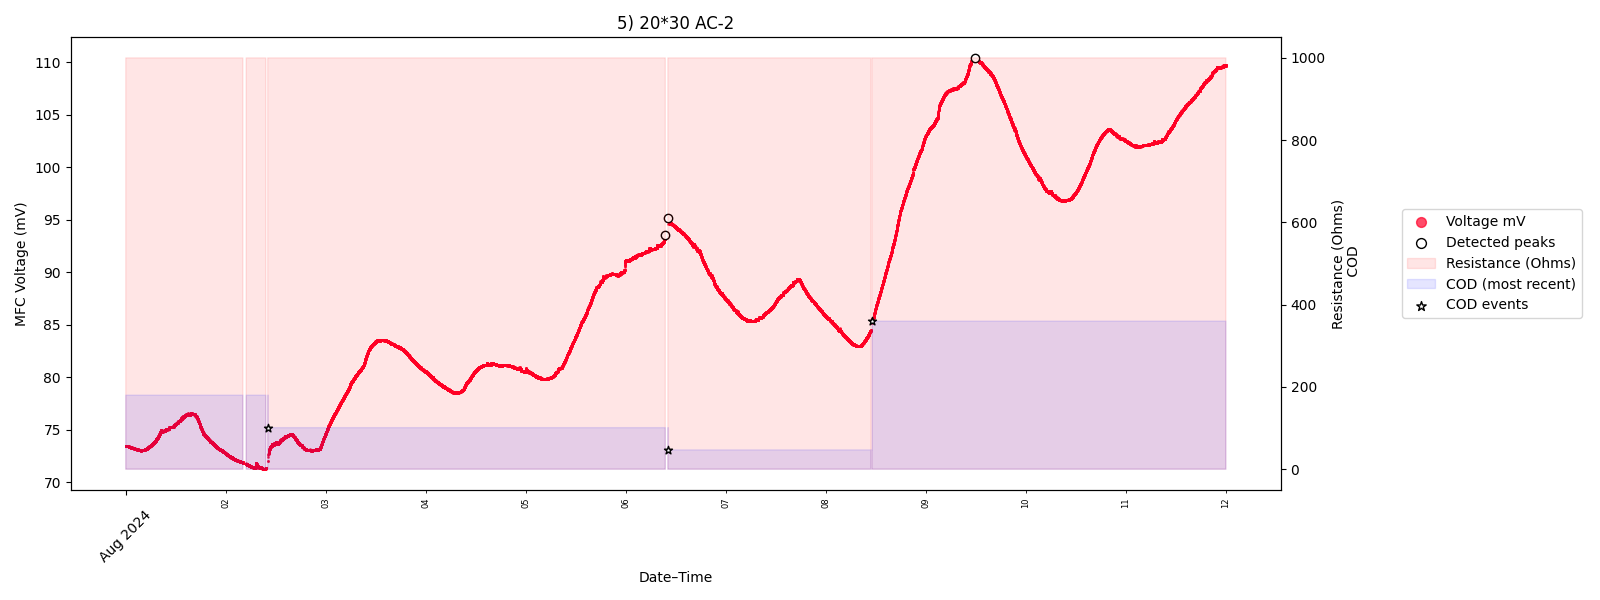
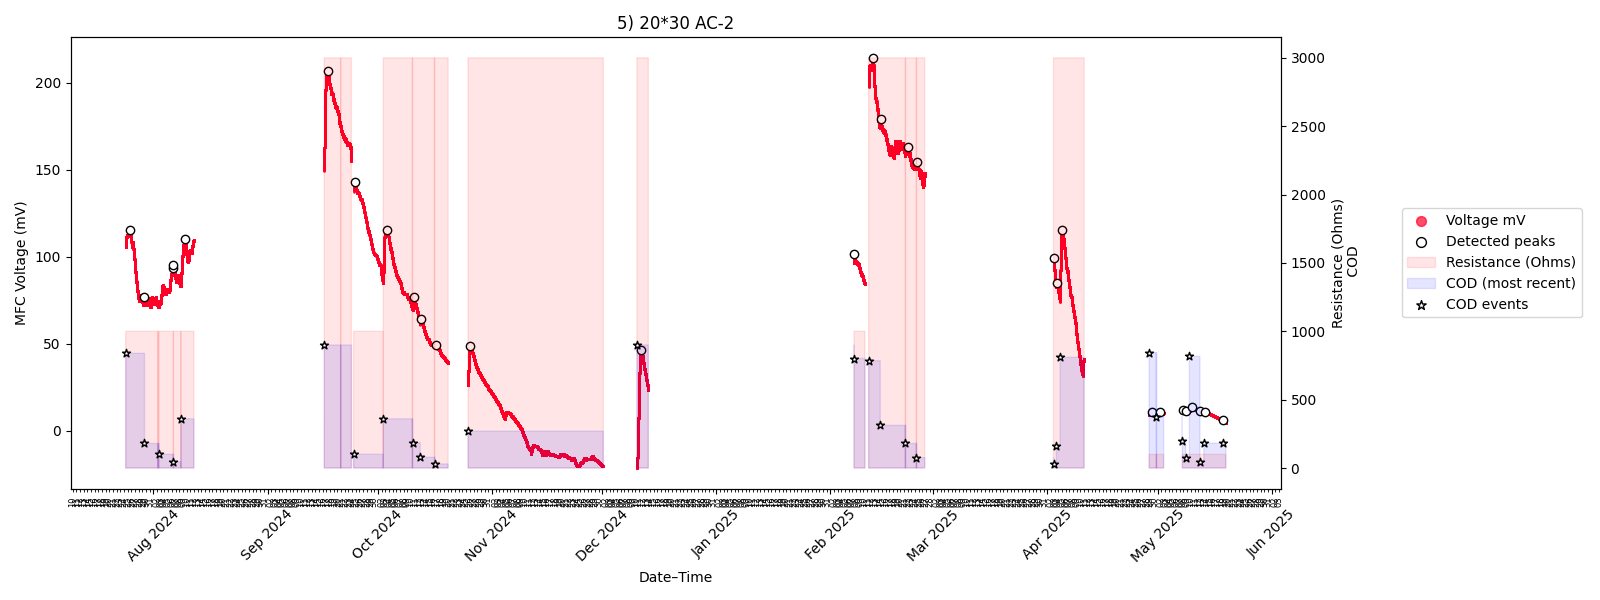
Scatter graph of COD vs peak voltage value generated

diff --git a/analyse_data.py b/analyse_data.py
@@ -10,13 +10,15 @@ def main():
     all_data = all_data.set_index("datetime", drop=False).sort_index()
 
     # Select date range to work on 
-    all_data = all_data.loc["2024-08-01":"2024-08-28 23:59:59"]
+    # all_data = all_data.loc["2024-08-01":"2024-08-28 23:59:59"]
 
     # Get names of columns containing MFC voltage data
     mfc_column_names = extract_mfc_column_names(all_data)
 
     # Plot all voltage data
-    plot_data(all_data, cols_to_plot=mfc_column_names, title="all MFCs", show_plot=False)
+    plot_data(all_data, cols_to_plot=mfc_column_names, title="all MFCs", 
+            #   show_plot=False
+              )
 
     # Separate into dictionary of indiviudal MFCs time series data
     all_data_separate = separate_mfc_data(all_data, mfc_column_names)
@@ -183,10 +185,8 @@ def main():
 
     # Save COD event parameters to excel file  
     with pd.ExcelWriter("mfc_analysis.xlsx") as writer:
+
         for sheet in mfc_analysis:
-            # # Translate dictionary to data frame
-            # df = pd.DataFrame(dict([(k, pd.Series(v)) for k, v in mfc_analysis[sheet].items()]))  
-            # df.to_excel(writer, sheet_name=sheet, index=False)
 
             # Convert all nested dictionaries to DataFrames in place
             mfc_analysis[sheet] = pd.DataFrame(
@@ -194,7 +194,8 @@ def main():
                 )
             
             # Write to excel file
-            mfc_analysis[sheet].to_excel(writer, sheet_name=sheet, index=False)
+            # mfc_analysis[sheet].to_excel(writer, sheet_name=sheet, index=False)
+            mfc_analysis[sheet].to_excel(writer, sheet_name=sheet)
 
 
     # Regex patterns for each MFC type to filter data
@@ -206,93 +207,117 @@ def main():
     }
 
     # ---------------------------------------------------------------
-    # -------- Min, max, mean spike delay for each COD event ---------
+    # -------- Min, max, mean spike delay and total energy for each COD event ---------
     # ---------------------------------------------------------------
-    summary = {}
+    for parameter in ["Spike delay (days)", "Energy J"]:
+    
+        summary = {}
 
-    for mfc_type, pattern in patterns.items():
+        plt.figure(figsize=(16, 6))
 
-        # Select only columns that match the heading name pettern
-        cols = mfc_analysis["Spike delay (days)"].filter(regex=pattern)   
+        for mfc_type, pattern in patterns.items():
 
-        # Compute the COD event-wise (i.e. row-wise) min, max, mean
-        summary[mfc_type] = {
-            "min": cols.min(axis=1),
-            "max": cols.max(axis=1),
-            "mean": cols.mean(axis=1)
-        }
+            # Select only columns that match the heading name pettern
+            cols = mfc_analysis[parameter].filter(regex=pattern)   
 
-        number_of_COD_events = len(summary[mfc_type]["mean"])
+            # Compute the COD event-wise (i.e. row-wise) min, max, mean
+            summary[mfc_type] = {
+                "min": cols.min(axis=1),
+                "max": cols.max(axis=1),
+                "mean": cols.mean(axis=1)
+            }
 
-        COD_event_numbers = range(number_of_COD_events)
+            number_of_COD_events = len(summary[mfc_type]["mean"])
 
-        # Plot COD event-wise mean
-        plt.plot(COD_event_numbers, 
-                 summary[mfc_type]["mean"], 
-                 label=mfc_type)
+            COD_event_numbers = range(number_of_COD_events)
 
-        # Shade area between min and max
-        plt.fill_between(COD_event_numbers, 
-                         summary[mfc_type]['min'], 
-                         summary[mfc_type]['max'], 
-                         alpha=0.3)
+            # Plot COD event-wise mean
+            plt.plot(COD_event_numbers, 
+                    summary[mfc_type]["mean"], 
+                    label=mfc_type)
 
-    plt.legend()
-    plt.xticks(COD_event_numbers)  # only integers
-    plt.xlabel('COD event index')
-    plt.ylabel('Delay from COD event to voltage peak (days)')
-    plt.savefig("figs/Spike_delay_days.png")
-    plt.show()
+            # Shade area between min and max
+            plt.fill_between(COD_event_numbers, 
+                            summary[mfc_type]['min'], 
+                            summary[mfc_type]['max'], 
+                            alpha=0.3)
 
-    print(summary)
+        plt.legend()
+        plt.xticks(COD_event_numbers)  # only integers
+        plt.xlabel('COD event index')
+        plt.ylabel(parameter)
+        plt.savefig("figs/" + parameter + "Spike_delay_days.png")
+        plt.show()
 
-    # ---------------------------------------------------------------
-    # -------- Min, max, mean total energy for each COD event ---------
-    # ---------------------------------------------------------------
-    summary = {}
+        print(summary)
 
-    for mfc_type, pattern in patterns.items():
-
-        # Select only columns that match the heading name pettern
-        cols = mfc_analysis["Energy J"].filter(regex=pattern)   
-
-        # Compute the COD event-wise (i.e. row-wise) min, max, mean
-        summary[mfc_type] = {
-            "min": cols.min(axis=1),
-            "max": cols.max(axis=1),
-            "mean": cols.mean(axis=1)
-        }
-
-        number_of_COD_events = len(summary[mfc_type]["mean"])
-
-        COD_event_numbers = range(number_of_COD_events)
-
-        # Plot COD event-wise mean
-        plt.plot(COD_event_numbers, 
-                 summary[mfc_type]["mean"], 
-                 label=mfc_type)
-
-        # Shade area between min and max
-        plt.fill_between(COD_event_numbers, 
-                         summary[mfc_type]['min'], 
-                         summary[mfc_type]['max'], 
-                         alpha=0.3)
-
-    plt.legend()
-    plt.xticks(COD_event_numbers)  # only integers
-    plt.xlabel('COD event index')
-    plt.ylabel('Delay from COD event to voltage peak (days)')
-    plt.savefig("figs/Spike_delay_days.png")
-    plt.show()
-
-    print(summary)
-
+    
     # ---------------------------------------------------------------
     # -------- Vpeak vs COD, coloured by resistance, seperate plot or marker style for each MFC type  ---------
     # ---------------------------------------------------------------
 
+    
+    df_vpeak = mfc_analysis["Vpeak mV"]
+    df_cod = mfc_analysis["COD"]
+    df_res = mfc_analysis["Resistance kOhms"]
+
+    for mfc_type, pattern in patterns.items():
+
+        # Select matching columns
+        cod = df_cod.filter(regex=pattern)
+        vpeak = df_vpeak.filter(regex=pattern)
+        res = df_res.filter(regex=pattern)
+
+        # Ensure same column order
+        cod = cod[vpeak.columns]
+        res = res[vpeak.columns]
+
+        # Flatten to 1D arrays
+        x = cod.values.flatten()
+        y = vpeak.values.flatten()
+        r = res.values.flatten()
+
+        # Remove NaNs (important for plotting)
+        mask = ~np.isnan(x) & ~np.isnan(y) & ~np.isnan(r)
+        x, y, r = x[mask], y[mask], r[mask]
+
+        # Create plot
+        plt.figure(figsize=(16, 6))
+
+        # Get unique resistance values 
+        unique_vals = sorted(np.unique(r))
+
+        # colors = plt.cm.tab10(range(len(unique_vals)))
+        # colours = ["red", "cyan", "green"]
+
+        # Gnerate colour map
+        colours = ["red", "cyan", "green"]
+        colour_map = dict(zip(unique_vals, colours))
+
+        # Plot each resistance group separately
+        for val, col in zip(unique_vals, colours):
+            # Get index of equal resistance values
+            idx = r == val
+            
+            # Plot points from this resistance group
+            plt.scatter(x[idx], 
+                        y[idx], 
+                        # color=col, 
+                        color=colour_map.get(val, "black"), # Use colour map or default to black
+                        label=f"R = {val} kOhm")
+
+        plt.xlabel("COD")
+        plt.ylabel("Vpeak mV")
+        plt.title(mfc_type)
+        plt.legend()
+        plt.show()
+
     # ---------------------------------------------------------------
     # -------- Ppeak vs COD, coloured by resistance, seperate plot or marker style for each MFC type  ---------
+    # ---------------------------------------------------------------
+
+    # ---------------------------------------------------------------
+    # -------- Energy vs COD, coloured by resistance, seperate plot or marker style for each MFC type  ---------
     # ---------------------------------------------------------------
 
 
